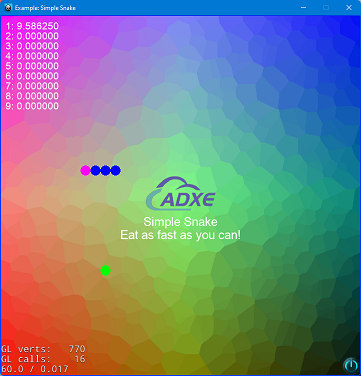
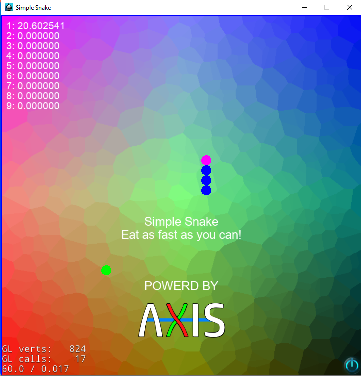
upload #2

diff --git a/Classes/SimpleSnakeScene.cpp b/Classes/SimpleSnakeScene.cpp
@@ -132,17 +132,17 @@ bool SimpleSnake::init()
     }
 
     // add "AXIS" splash screen"
-    auto sprite = Sprite::create("AXIS_white.png"sv);
+    auto sprite = Sprite::create("AXIS_black.png"sv); 
     setNodeIgnoreDesignScale(sprite);
     if (sprite == nullptr)
     {
-        problemLoading("'AXIS_white.png'");
+        problemLoading("'AXIS_black.png'");
     }
     else
     {
         // position the sprite on the center of the screen
-        sprite->setPosition(offset);
-
+        sprite->setPosition(offset+Vec2(0,-250));
+        sprite->setScale(0.7);
         // add the sprite as a child to this layer
         this->addChild(sprite, 9);
         auto drawNode = DrawNode::create();
@@ -150,6 +150,12 @@ bool SimpleSnake::init()
         addChild(drawNode, 20);
 
         drawNode->drawRect(safeArea.origin, safeArea.origin + safeArea.size, Color4F::BLUE);
+
+        auto powerdBy = Label::createWithTTF("POWERD BY", "fonts/arial.ttf", 24);
+        powerdBy->setPosition(Vec2(origin.x + visibleSize.width / 2, 100+ powerdBy->getContentSize().height * 3));
+
+        // add the label as a child to this layer
+        this->addChild(powerdBy, 1);
     }
 
     srand(time(0));

diff --git a/Classes/AppDelegate.cpp b/Classes/AppDelegate.cpp
@@ -70,7 +70,7 @@ bool AppDelegate::applicationDidFinishLaunching()
 #if (AX_TARGET_PLATFORM == AX_PLATFORM_WIN32) || (AX_TARGET_PLATFORM == AX_PLATFORM_MAC) || \
     (AX_TARGET_PLATFORM == AX_PLATFORM_LINUX)
         glview = GLViewImpl::createWithRect(
-            "Example: Simple Snake", axis::Rect(0, 0, designResolutionSize.width, designResolutionSize.height));
+            "Simple Snake", axis::Rect(0, 0, designResolutionSize.width, designResolutionSize.height));
 #else
         glview = GLViewImpl::create("Example: Simple Snake");
 #endif

diff --git a/README.md b/README.md
@@ -1,7 +1,7 @@
 # Simple Snake 
 axis version of a "Simple Snake" game.
 
-![image](https://user-images.githubusercontent.com/8652787/175750227-f3f412dd-f555-4b05-bb91-8efe2f3ccc6b.png)
+![image](https://github.com/aismann/axis/blob/dev/examples/SimpleSnake/Resources/screenshot.png)
 
 
 If you have any questions or want to continue this project feel free to do so.
